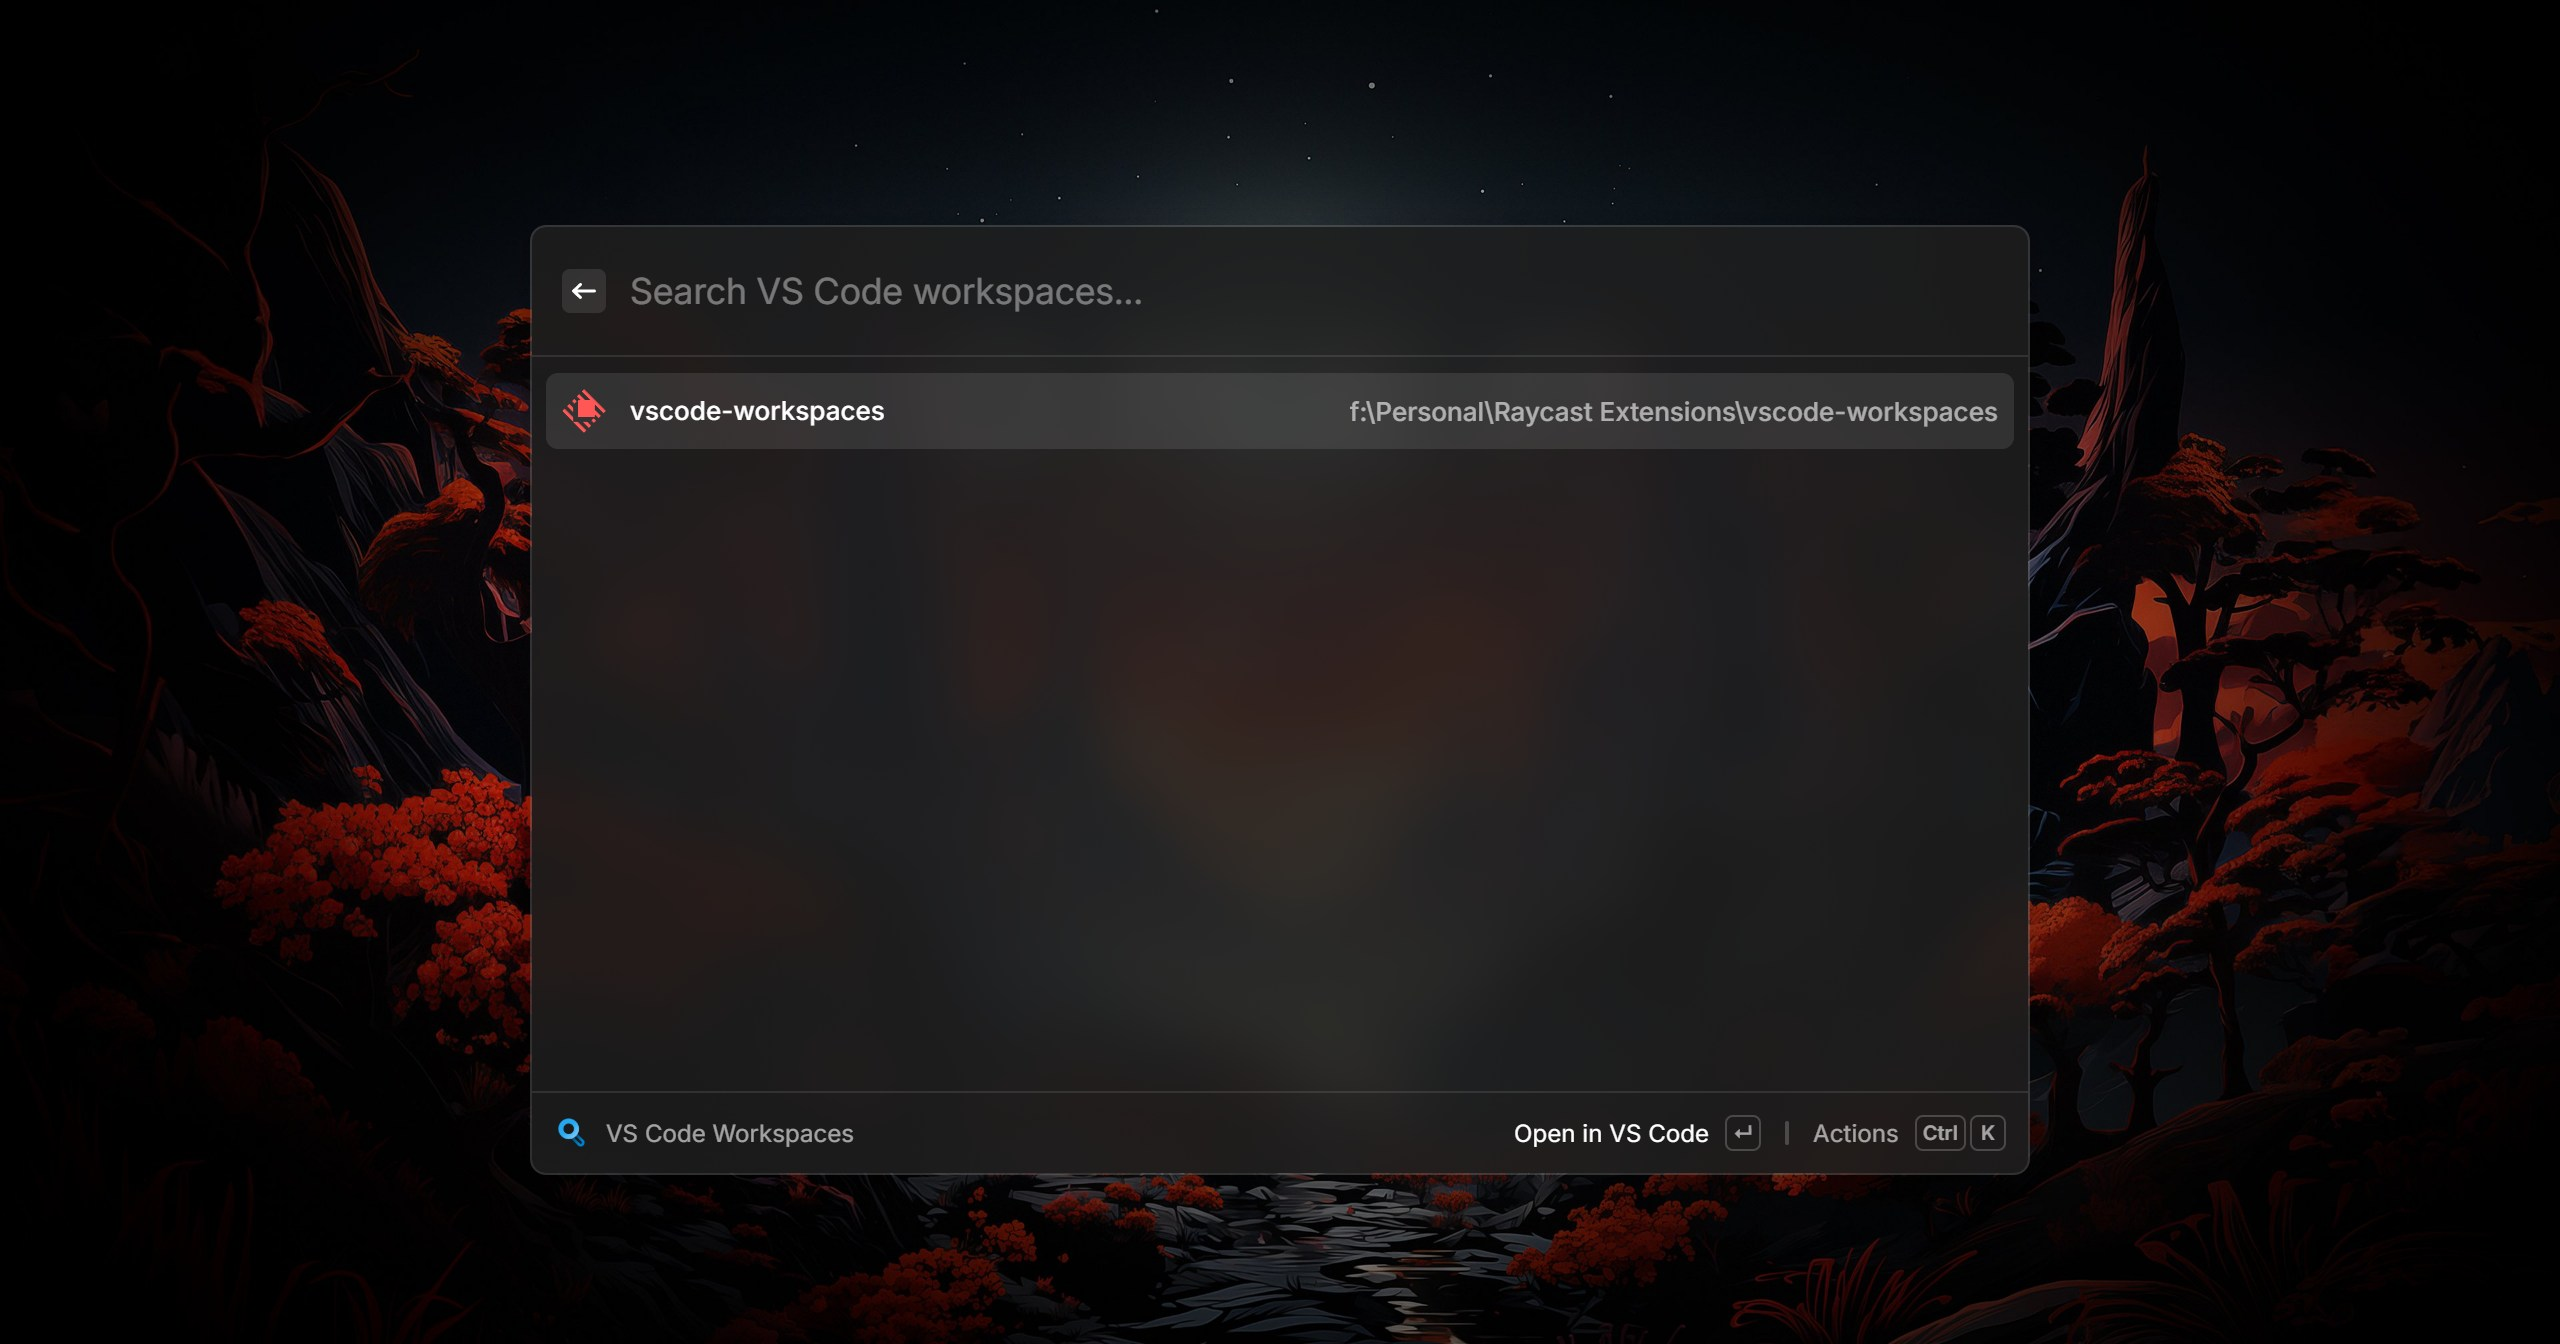
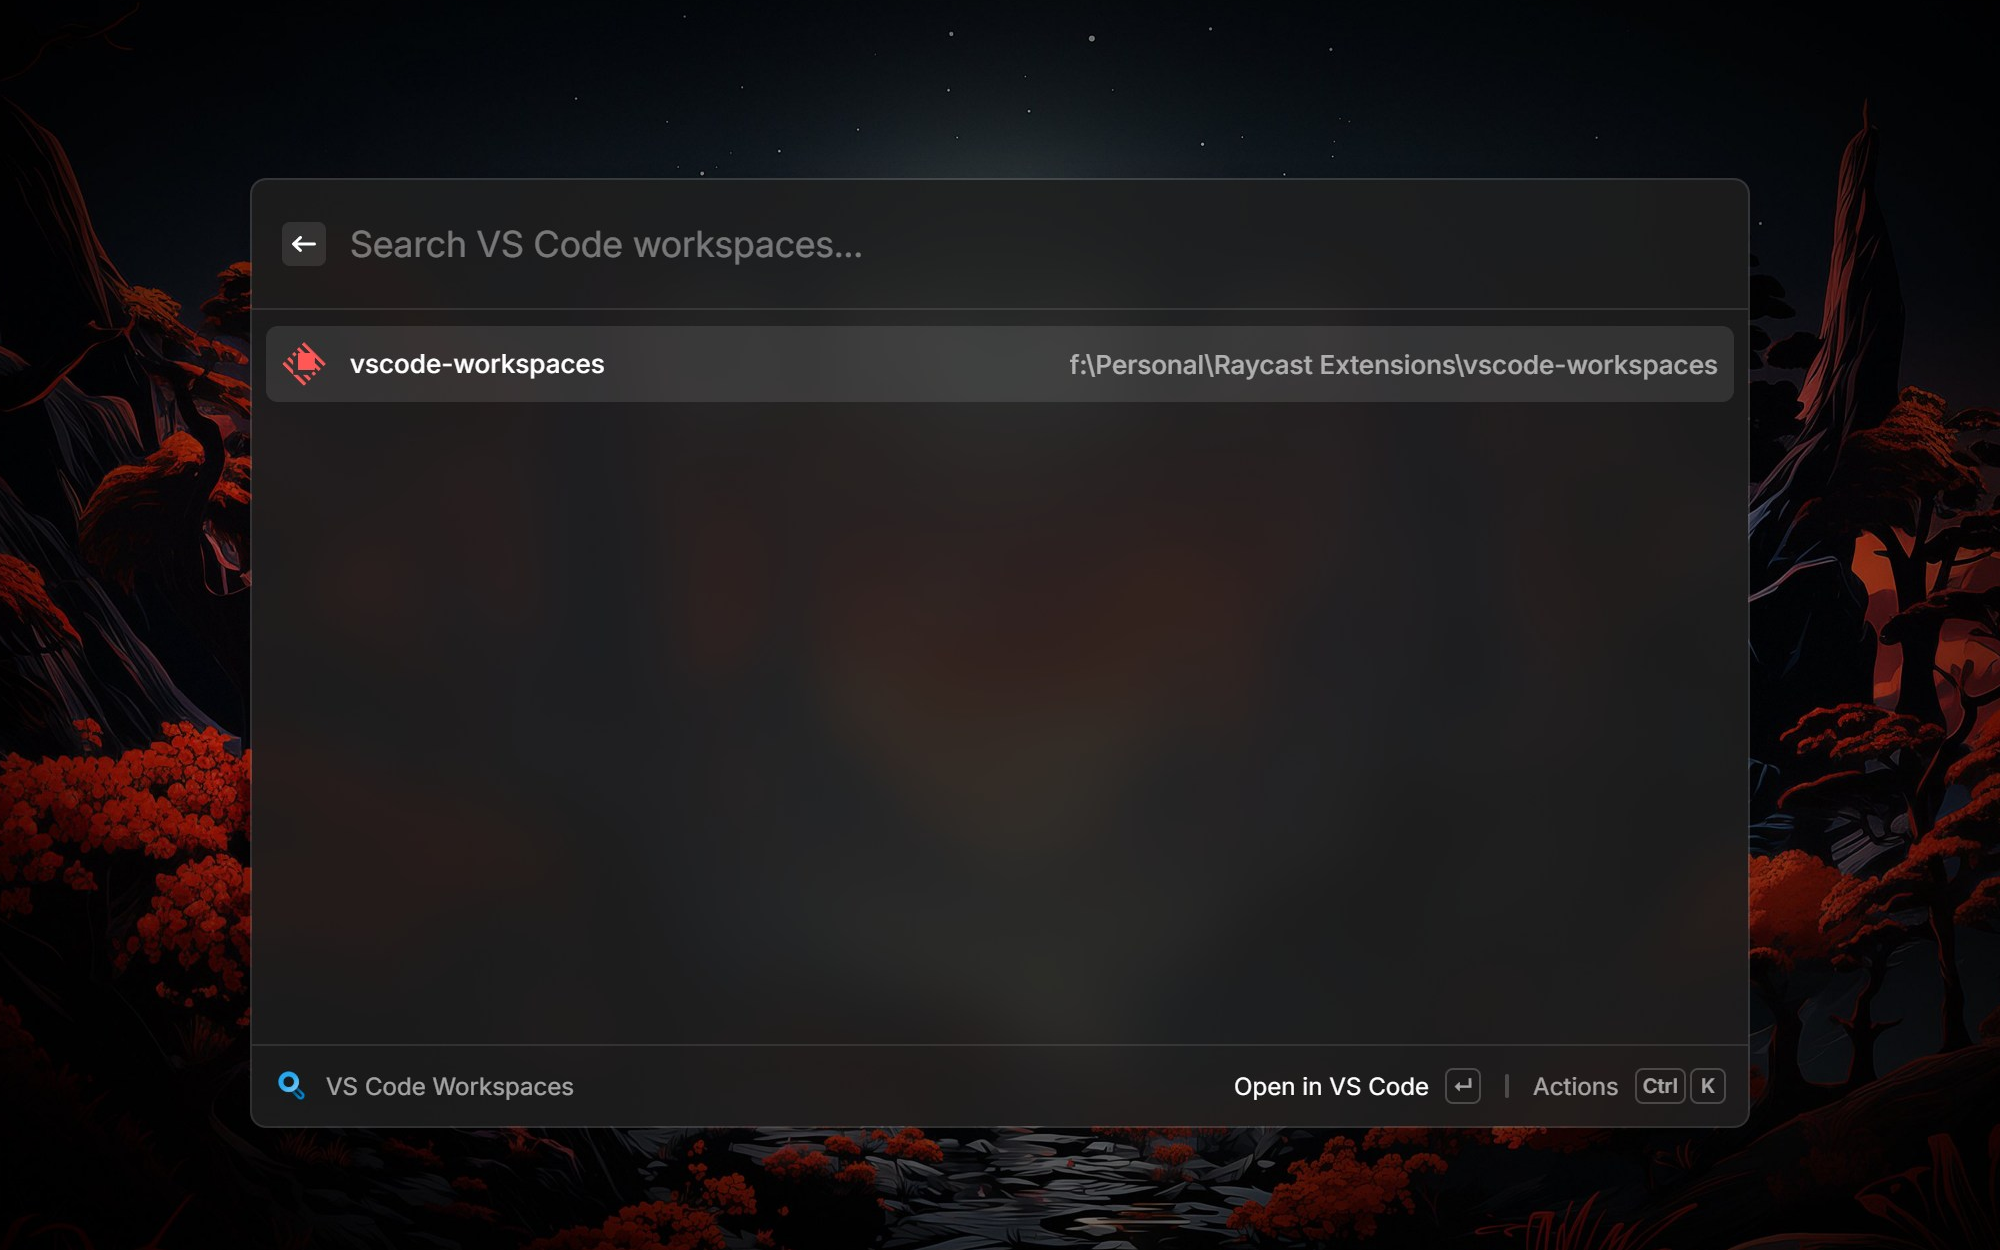
fix: metadata images to be correct sizes

diff --git a/CHANGELOG.md b/CHANGELOG.md
@@ -2,6 +2,11 @@
 
 ## [Bugfix & Improvements] - {PR_MERGE_DATE}
 
+- Use Raycast's safe trash API instead of platform specific deletion
+- Fixed metadata images to be correct sizes
+
+## [Bugfix & Improvements] - {PR_MERGE_DATE}
+
 - Fixed workspace deletion on Windows and macOS
 - Improved error handling and stability
 - Added project type detection and icons (Next.js, React, Node.js, Python, etc.)
